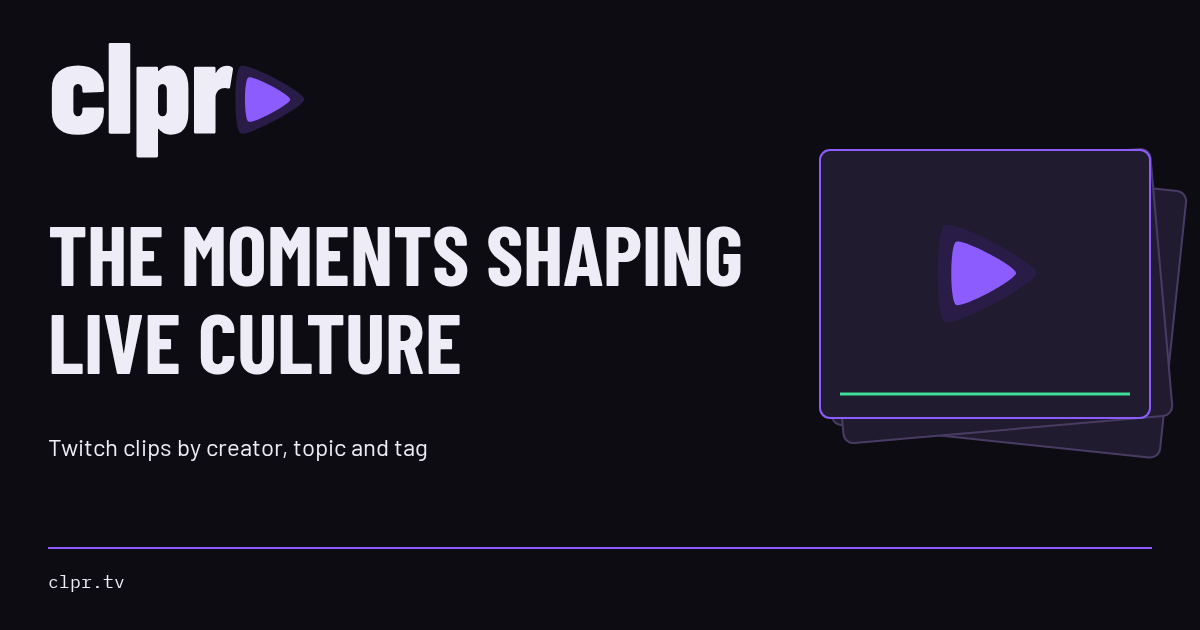
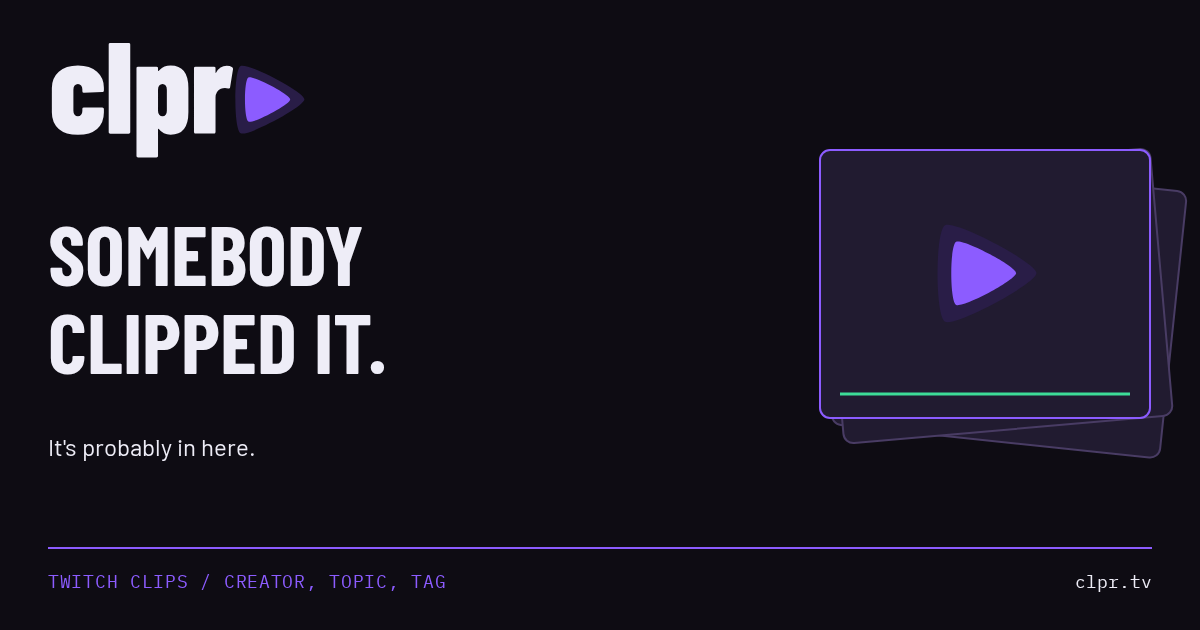
brand(social-card): re-render the link preview with the clpr voice headline
The card read "The moments shaping live culture", a line the design
system now rules out. It now carries the same text as the Studio banner
(brands/clpr/social/banner-x-bluesky):

  SOMEBODY / CLIPPED IT.
  It's probably in here.
  TWITCH CLIPS / CREATOR, TOPIC, TAG
  clpr.tv

Rendered with `node scripts/render-brand-assets.mjs` from frontend/.
Icons, favicons, banner PNGs and extension icons came out byte-identical.
social-card.png stays 1200x630 PNG under the same name;
sha256 e776462654a083b29934f7b25d74ed3996b0dbcd24db13167de090f4f13d9c3e.

The default og:image:alt and twitter:image:alt (index.html, SEO.tsx and
the share handler) now quote the card's text, and the design system
describes the current card.

diff --git a/frontend/index.html b/frontend/index.html
@@ -82,7 +82,7 @@
         <meta property="og:image:type" content="image/png" />
         <meta property="og:image:width" content="1200" />
         <meta property="og:image:height" content="630" />
-        <meta property="og:image:alt" content="clpr: Twitch clips by creator, topic and tag" />
+        <meta property="og:image:alt" content="clpr: Somebody clipped it. It's probably in here. Twitch clips by creator, topic and tag." />
 
         <!-- Default Twitter Card tags -->
         <meta name="twitter:card" content="summary_large_image" />
@@ -98,7 +98,7 @@
             content="Twitch clips by creator, topic and tag. Playlists for the ones you keep sending people."
         />
         <meta name="twitter:image" content="https://clpr.tv/social-card.png" />
-        <meta name="twitter:image:alt" content="clpr: Twitch clips by creator, topic and tag" />
+        <meta name="twitter:image:alt" content="clpr: Somebody clipped it. It's probably in here. Twitch clips by creator, topic and tag." />
     </head>
     <body>
         <div id="root"></div>

diff --git a/frontend/src/components/SEO.tsx b/frontend/src/components/SEO.tsx
@@ -28,7 +28,8 @@ const DEFAULT_TITLE = 'clpr - Twitch clips by creator, topic and tag';
 const DEFAULT_DESCRIPTION =
     'Twitch clips by creator, topic and tag. Playlists for the ones you keep sending people.';
 const DEFAULT_IMAGE = '/social-card.png';
-const DEFAULT_IMAGE_ALT = 'clpr: Twitch clips by creator, topic and tag';
+const DEFAULT_IMAGE_ALT =
+    "clpr: Somebody clipped it. It's probably in here. Twitch clips by creator, topic and tag.";
 const SITE_NAME = 'clpr';
 const TWITTER_HANDLE = '@clpr_tv';
 

diff --git a/frontend/src/components/SEO.test.tsx b/frontend/src/components/SEO.test.tsx
@@ -52,7 +52,9 @@ describe('SEO social metadata', () => {
             'summary_large_image',
         );
         expect(meta('meta[name="twitter:creator"]')).toBe('@clpr_tv');
-        expect(meta('meta[name="twitter:image:alt"]')).toContain('clpr');
+        expect(meta('meta[name="twitter:image:alt"]')).toContain(
+            'Somebody clipped it.',
+        );
     });
 
     it('does not claim default dimensions for a custom clip thumbnail', async () => {

diff --git a/backend/internal/handlers/share_handler.go b/backend/internal/handlers/share_handler.go
@@ -168,7 +168,7 @@ func defaultClipPreview(baseURL string) clipPreview {
 		Description:  shareDefaultDescription,
 		PageURL:      baseURL + "/",
 		ImageURL:     baseURL + "/social-card.png",
-		ImageAlt:     "clpr: Twitch clips by creator, topic and tag",
+		ImageAlt:     "clpr: Somebody clipped it. It's probably in here. Twitch clips by creator, topic and tag.",
 		IsDefault:    true,
 		DefaultImage: true,
 		LinkText:     "Open clpr",

diff --git a/docs/design-system.md b/docs/design-system.md
@@ -673,7 +673,7 @@ The logo, app icon and promotional graphics follow the CLPR brand pack in the pr
 | Wordmark with play triangle | `frontend/src/assets/brand/clpr-logo.svg`, `frontend/public/clpr-logo.svg` | Header logo at 32px tall. The pack's 220px minimum lockup width applies to promotional layouts; the header is a deliberate exception. The mark alone stays at 32px or wider |
 | Play mark | `frontend/src/assets/brand/clpr-mark.svg` | Outer triangle `#291D47`, inner `#8C5CFF` |
 | App icon | `frontend/public/icons/icon.svg`, `icon-maskable.svg`, `frontend/public/favicon.svg` | Play mark on ink; the maskable icon keeps the mark inside the safe zone |
-| Social card | `frontend/public/social-card.png` | Clip stack layout: wordmark, headline, three clip cards (`#211B30`, back cards ruled `#493C64`), mint progress line, violet rule |
+| Social card | `frontend/public/social-card.png` | Clip stack layout: wordmark, headline, line, three clip cards (`#211B30`, back cards ruled `#493C64`), mint progress line, violet rule, mono tag and `clpr.tv` |
 
 The SVGs copy the Studio path data unchanged, with editor-only attributes removed. Do not stretch, skew, recolour or redraw the marks, and keep a quarter of the mark's height clear around it. Change the logo in Studio first, then copy it here and run `node scripts/render-brand-assets.mjs` from `frontend/` to rebuild the PWA icons, favicons, social card, banner PNGs and browser-extension icons. The script prints the command that assembles `favicon.ico`.
 
@@ -713,7 +713,7 @@ clpr talks like a regular in chat who clips everything and remembers which strea
 
 Sample lines in use: "Somebody clipped it. It's probably in here." (About), "You missed it live" (home feed), "You remember who. Start there." (creators).
 
-The social card headline ("The moments shaping live culture") is rendered by `frontend/scripts/render-brand-assets.mjs` and predates this section. Changing it means re-rendering `social-card.png`, so it waits for an owner decision.
+The social card reads "SOMEBODY / CLIPPED IT.", "It's probably in here." and "TWITCH CLIPS / CREATOR, TOPIC, TAG", the same text as the Studio banner (`brands/clpr/social/banner-x-bluesky`). The text lives in `frontend/scripts/render-brand-assets.mjs`; changing it means re-rendering `social-card.png` and updating the default image alt text in `frontend/index.html`, `frontend/src/components/SEO.tsx` and `backend/internal/handlers/share_handler.go`.
 
 ## 10. Maintenance and verification
 
